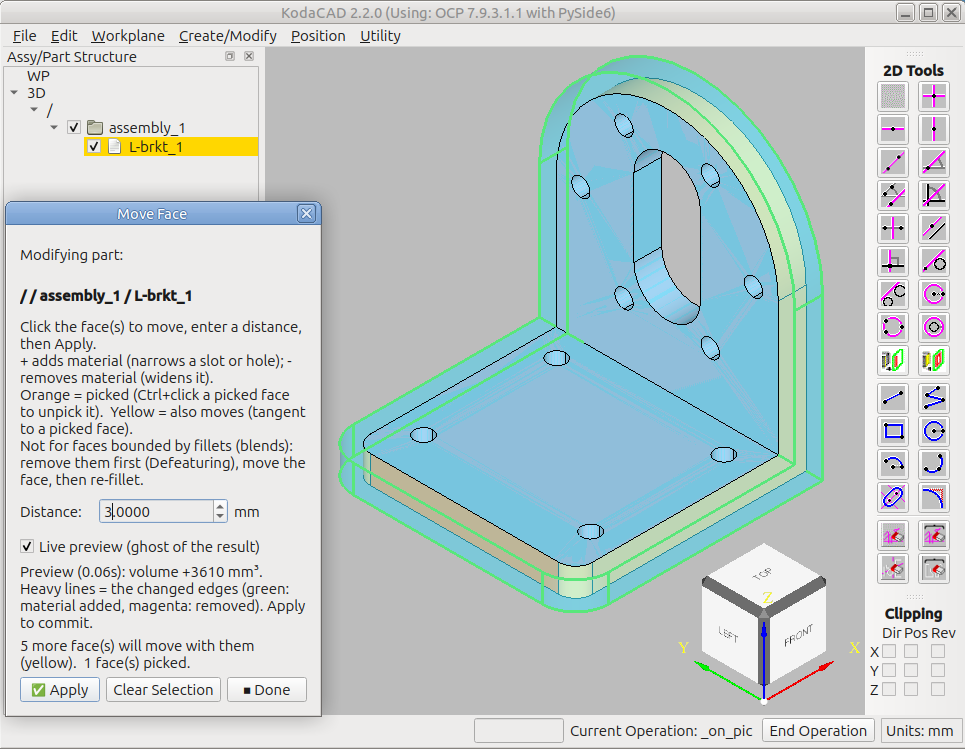
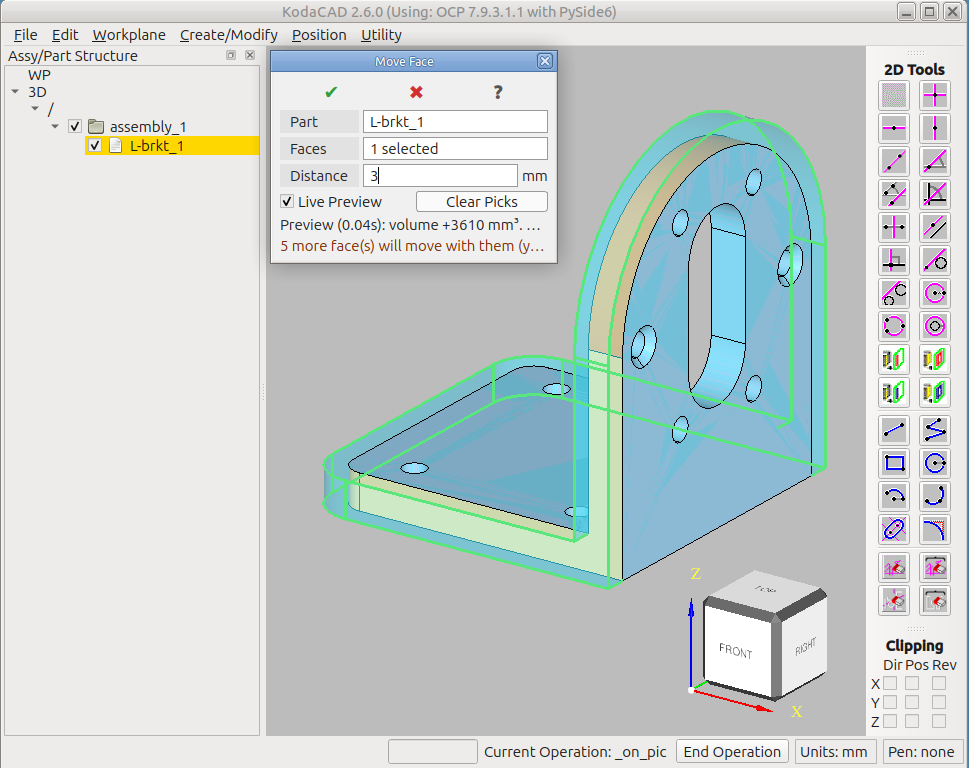
Move Face: retry offset on a STEP-flattened copy; restore tutorial Step 7

diff --git a/face_offset_server.py b/face_offset_server.py
@@ -61,14 +61,59 @@ def read_shape():
     return shape, faces
 
 
+def _flatten(shape):  # FLATTEN-S182
+    """STEP round trip: bakes every sub-shape location into the geometry."""
+    import shutil
+    import tempfile
+    from OCP.STEPControl import (STEPControl_AsIs, STEPControl_Reader,
+                                 STEPControl_Writer)
+    td = tempfile.mkdtemp(prefix="kodacad_flat_")
+    try:
+        fp = os.path.join(td, "flat.stp")
+        w = STEPControl_Writer()
+        w.Transfer(shape, STEPControl_AsIs)
+        w.Write(fp)
+        r = STEPControl_Reader()
+        r.ReadFile(fp)
+        r.TransferRoots()
+        return r.OneShape()
+    finally:
+        shutil.rmtree(td, ignore_errors=True)
+
+
+def _same_face_in(shape, face):  # FLATTEN-S182
+    """The face of `shape` with the same area and centre as `face`, or
+    None if there is none or more than one."""
+    def key(f):
+        p = GProp_GProps()
+        BRepGProp.SurfaceProperties_s(f, p)
+        c = p.CentreOfMass()
+        return p.Mass(), c.X(), c.Y(), c.Z()
+    a, x, y, z = key(face)
+    best = None
+    ex = TopExp_Explorer(shape, TopAbs_FACE)
+    while ex.More():
+        f = TopoDS.Face_s(ex.Current())
+        m, fx, fy, fz = key(f)
+        if (abs(m - a) <= 1e-6 * max(a, 1.0) + 1e-6
+                and abs(fx - x) < 1e-4 and abs(fy - y) < 1e-4
+                and abs(fz - z) < 1e-4):
+            if best is not None:
+                return None
+            best = f
+        ex.Next()
+    return best
+
+
 def try_offsets(shape, faces, idx, value, tol0):
     """Offset attempts in order of increasing desperation; returns
     (result_or_None, done, label). Session 161: the wheel's top face
     returned a NULL result on a plain attempt, so retry with looser/
     tighter tolerances and on a ShapeFix_Shape-healed copy."""
-    tries = [("tol", tol0), ("tol", 1.0e-3), ("tol", 1.0e-5),
-             ("healed", tol0), ("healed", 1.0e-3)]
+    tries = [("tol", tol0), ("flat", tol0), ("tol", 1.0e-3),
+             ("tol", 1.0e-5), ("healed", tol0), ("healed", 1.0e-3)]
     healed = None
+    flat = None
     any_done = False
     for kind, tol in tries:
         s, fs = shape, faces
@@ -86,11 +131,27 @@ def try_offsets(shape, faces, idx, value, tol0):
                 print(f"[offset] heal attempt skipped: {e}",
                       file=sys.stderr, flush=True)
                 continue
+        elif kind == "flat":  # FLATTEN-S182
+            try:
+                if flat is None:
+                    fshape = _flatten(shape)
+                    flat = (fshape, {i: _same_face_in(fshape, faces[i])
+                                     for i in idx})
+                s, fs = flat
+                if any(f is None for f in fs.values()):
+                    print("[offset] flat attempt skipped: picked face not "
+                          "found after the round trip",
+                          file=sys.stderr, flush=True)
+                    continue
+            except Exception as e:
+                print(f"[offset] flat attempt skipped: {e}",
+                      file=sys.stderr, flush=True)
+                continue
         mk = BRepOffset_MakeOffset()
         mk.Initialize(s, 0.0, tol, BRepOffset_Skin, False, False,
                       GeomAbs_Intersection, False, False)
         for i in idx:
-            mk.SetOffsetOnFace(fs[i] if kind == "healed" else faces[i],
+            mk.SetOffsetOnFace(fs[i] if kind != "tol" else faces[i],
                                value)
         mk.MakeOffsetShape()
         done = bool(mk.IsDone())

diff --git a/tutorials/move-face/README.md b/tutorials/move-face/README.md
@@ -235,6 +235,35 @@ slot too. Undo it (Ctrl+Z) if you want the thickness back.
 
 *Exercises: negative distance on a large face; the volume read-out.*
 
+## Step 7 -- A face tangent to others moves its neighbours
+
+![Tangent skin](imgs/s6preview.png)
+
+The top of the upright is semicircular. Click that large curved face and
+type **3**. This time many faces turn **yellow**: **5 more face(s) will
+move with them**. The curved top is tangent to the flat sides of the
+upright, which are tangent to the rounded corners of the base and to its
+end face. They are all one smooth skin, and OpenCascade's offset treats the
+whole skin as one thing: **move any one face of it and they all move**.
+(Clicking the end face of the base instead picks the same skin.)
+
+That is why Move Face shows the yellow faces before you commit. If the
+answer is not what you intended, press **Clear Picks**, or Ctrl+click
+the face to unpick it, and nothing changes. If you do want a part of a
+tangent skin to move by itself, remove the blends first with
+**Defeaturing**, move the face, and put the blends back (with Fillet).
+
+Look at the outside of the upright in the ghost. The two countersunk holes
+that Step 4 did not remove are still there, and the preview leaves them as
+they are. Step 4 removed the four countersinks that cut into the slot;
+these two are not in the way of this move.
+
+Do not Apply here, or undo it.
+
+*Exercises: tangent chains; why yellow faces matter.*
+
+---
+
 ## Limits
 
 - **Faces bounded by fillets (blends).** Move Face is not for these: the
@@ -243,12 +272,6 @@ slot too. Undo it (Ctrl+Z) if you want the thickness back.
 - **A failed preview means this offset failed.** The dialog says so and
   marks the suspect faces red. Trying a different distance sometimes
   helps. Removing the red faces usually does.
-- **Tangent faces move together.** A face that meets a picked face
-  tangentially (yellow) moves with it, so a rounded corner or a slot end
-  cannot be moved on its own; remove the blends first (Defeaturing), move
-  the face, then re-fillet. The preview shows the yellow faces before you
-  commit. On this bracket, moving the end face of the base (a tangent
-  chain) currently gives no preview.
 - **The part must be one solid.** A part with several solids is not
   previewed.
 
@@ -275,6 +298,12 @@ slot too. Undo it (Ctrl+Z) if you want the thickness back.
   a 2.7 mm leftover chamfer facet. The dialog's red "suspect" faces find
   faces that are very narrow or touch a very short edge. That is a good
   guide, but not a proof: the red faces are where to start looking.
+- **A live part can fail where the same part works after Save and Load.**
+  Parts that went through earlier moves can carry placement locations on
+  their faces and edges, and `BRepOffset_MakeOffset` then returned a null
+  shape with no error. A STEP round trip removes them, so when the plain
+  attempt fails the preview server retries once on a round-tripped copy
+  (`flat` in the log). Why only some shapes fail is not fully understood.
 - **Yellow faces are an estimate.** They are our own tangency test,
   computed from the face normals along each shared edge (a stored
   continuity flag is not trusted, since Defeaturing and some STEP files

diff --git a/docs/DEVELOPMENT_LOG.md b/docs/DEVELOPMENT_LOG.md
@@ -7777,3 +7777,11 @@ Doug built the American S-20 crane and took twelve unordered notes. Agreed first
 - Step 7 (move the end face of the base by +3; many yellow faces) gave "No preview" with two red suspect faces (the two remaining countersinks on the upright, smallest size 1.41 mm) even with Step 5 not applied. Rather than keep patching the tutorial around a fragile Move Face, Doug decided to delete Step 7 and return to it once the offset fragility is understood. The tangent-skin lesson survives as a "Tangent faces move together" bullet under Limits (it notes this case currently gives no preview). Unused now: imgs/s6preview.png.
 - Doug also removed the volume figure from Step 6 (it did not agree with the dialog's value).
 - For the fragility work: the dialog's own advice here was to fix the two red countersinks with Defeaturing; untested whether that makes Step 7 work. Four countersinks were already removed in Step 4, which is the same "clips its neighbour" pattern. Together with the Step 5/6 interaction, this suggests the whole-part offset needs a more local approach (offset only the picked face and its tangent neighbours, then rebuild), or a move-into-congruence method that does not use BRepOffset at all.
+
+### Move Face: live-shape failure found and worked around (Doug + diagnostics)
+- Symptom: Move Face gave "No preview" at tutorial Step 7 on a live session, yet the same part reloaded from a saved .kcad worked. The live file's STEP was identical to the reloading fixture (28 faces, same surfaces); only in-memory data differed.
+- Diagnostics (patched face_offset_server.py, probe_live_fail.py on the dumped input BREP): OCCT reports `BRepOffset_NoError` while returning a null shape (no usable reason). Not tolerance (max 2e-7). Not the 16 +/-1e7 trimmed lines (text-edited away: still failed). Copy, identity/translate-and-back Transform, dropping the mesh, SameParameter, ShapeFix: all still failed and still carried non-identity face/edge locations (28/28, 148/148). Only a STEP round trip worked (0.03 s), and it is the only variant with all locations flattened. Locations are the best remaining explanation, not proven: the earlier state (32/32 located) offset +1 fine, so locations alone are not enough.
+- Separate failure: -0.5 on that earlier state fails even after the round trip: geometric (countersinks clipping the slot, Step 4).
+- Fix: face_offset_server.py try_offsets retries once on a STEP-round-tripped copy ("flat"), finding the picked face by area+centre. The one-shot face_offset_worker.py is NOT changed (it prints JSON on stdout; STEP progress text would spoil it). Doug verified the whole tutorial live through Step 7 (+3 mm on the semicircular top of the upright).
+- Tutorial: Step 7 restored with the semicircular top of the upright as the pick; the two surviving countersinks are visible in the ghost. Supersedes the earlier "Step 7 removed" and "narrow cones" log notes (those blamed the countersinks, which the diagnostics do not support).
+- Open: which operation gives faces/edges their locations (the extrusion fallback uses a face Transform; Defeaturing results were flat); worker path unpatched; the Step 4 claim that a far-away feature can block any pick is less well supported now.
